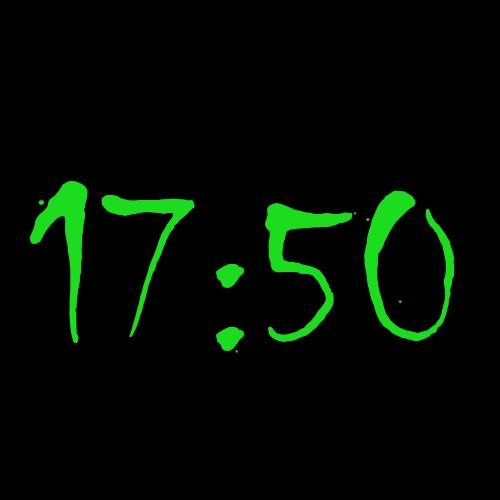
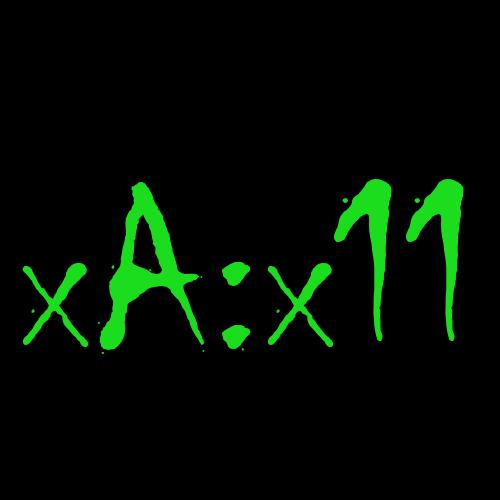
часы в 16системе счисления

Changed region(s): [[0.03, 0.36, 0.93, 0.72]]

diff --git a/utilites.py b/utilites.py
@@ -6,7 +6,13 @@ def get_current_time():
 	'''
 	рассчет текущего времени в зависимости от часового пояса
 	'''
-	return datetime.now(timezone('Europe/Kiev')).strftime('%H:%M')
+	# times= datetime.now(timezone('Europe/Kiev')).strftime('%H:%M')
+	time_hm = datetime.now(timezone('Europe/Kiev'))
+	tuple_time_hm = time_hm.timetuple()
+	hour = str(hex(tuple_time_hm.tm_hour)).upper()
+	minutes = str(hex(tuple_time_hm.tm_min)).upper()
+	# return times # time in 'int'
+	return f'x{hour[2:]}:x{minutes[2:]}' # time in 'hex'
 
 def generate_image(text):
 	'''создаем картинку 500х500 с часами
